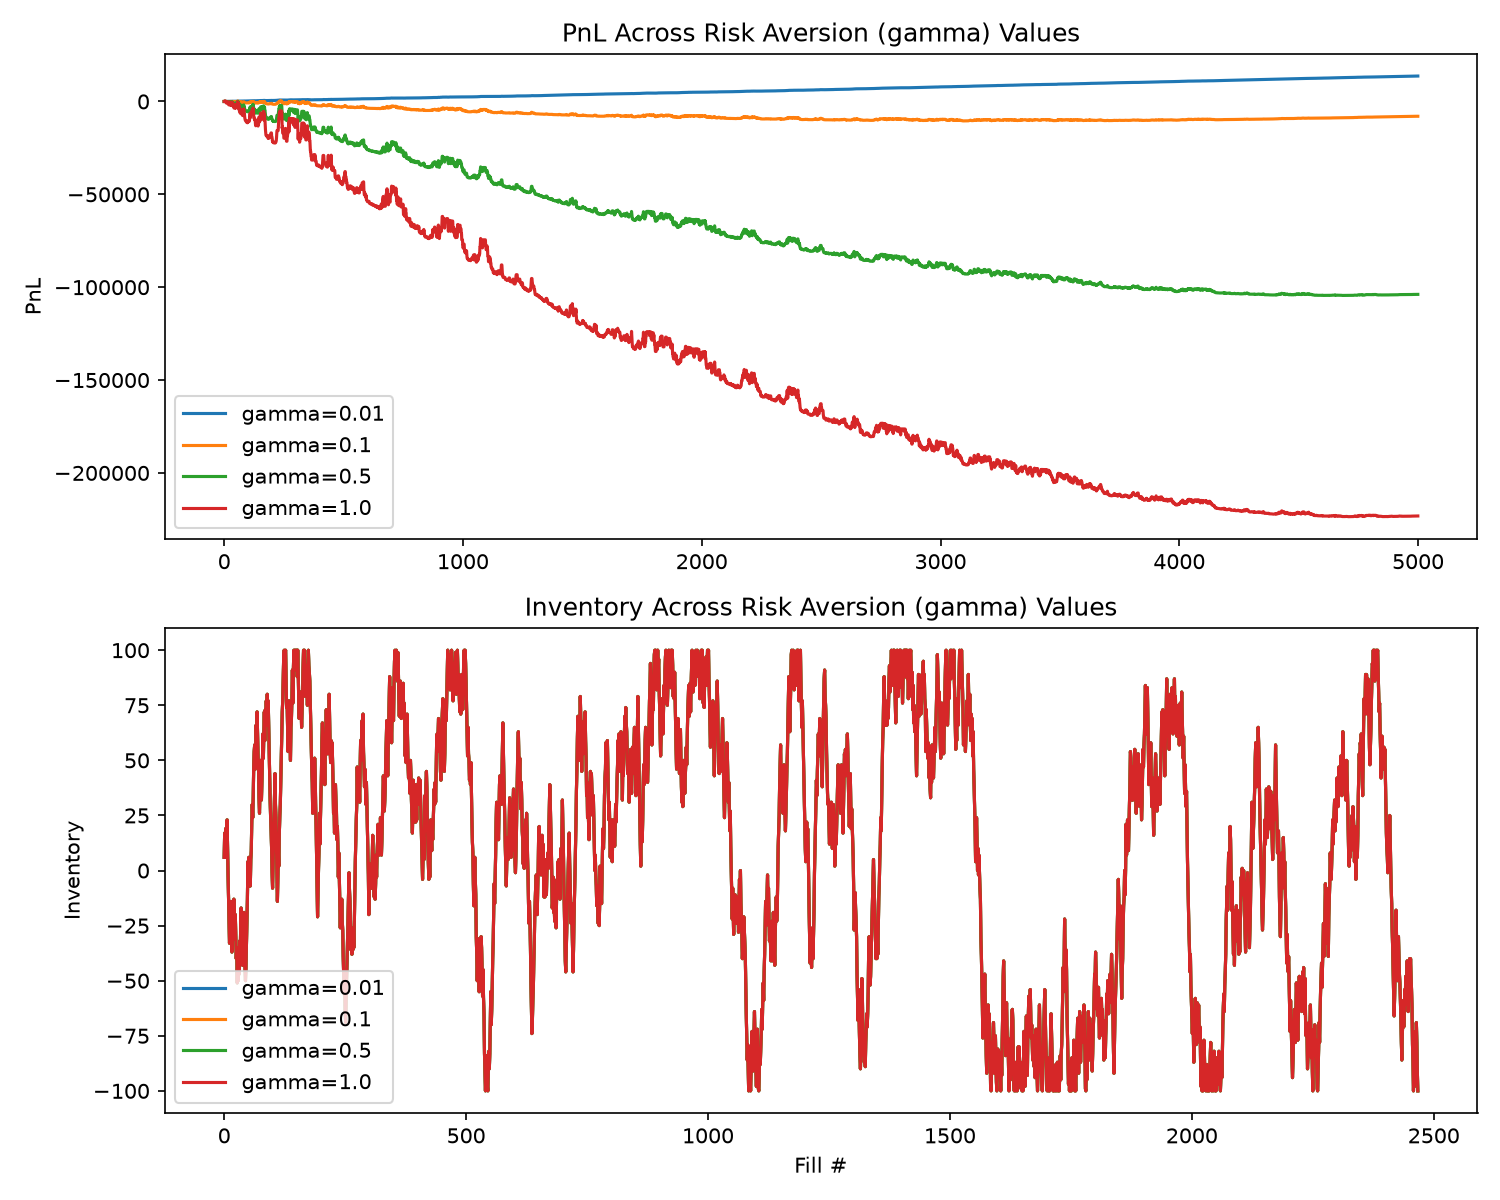
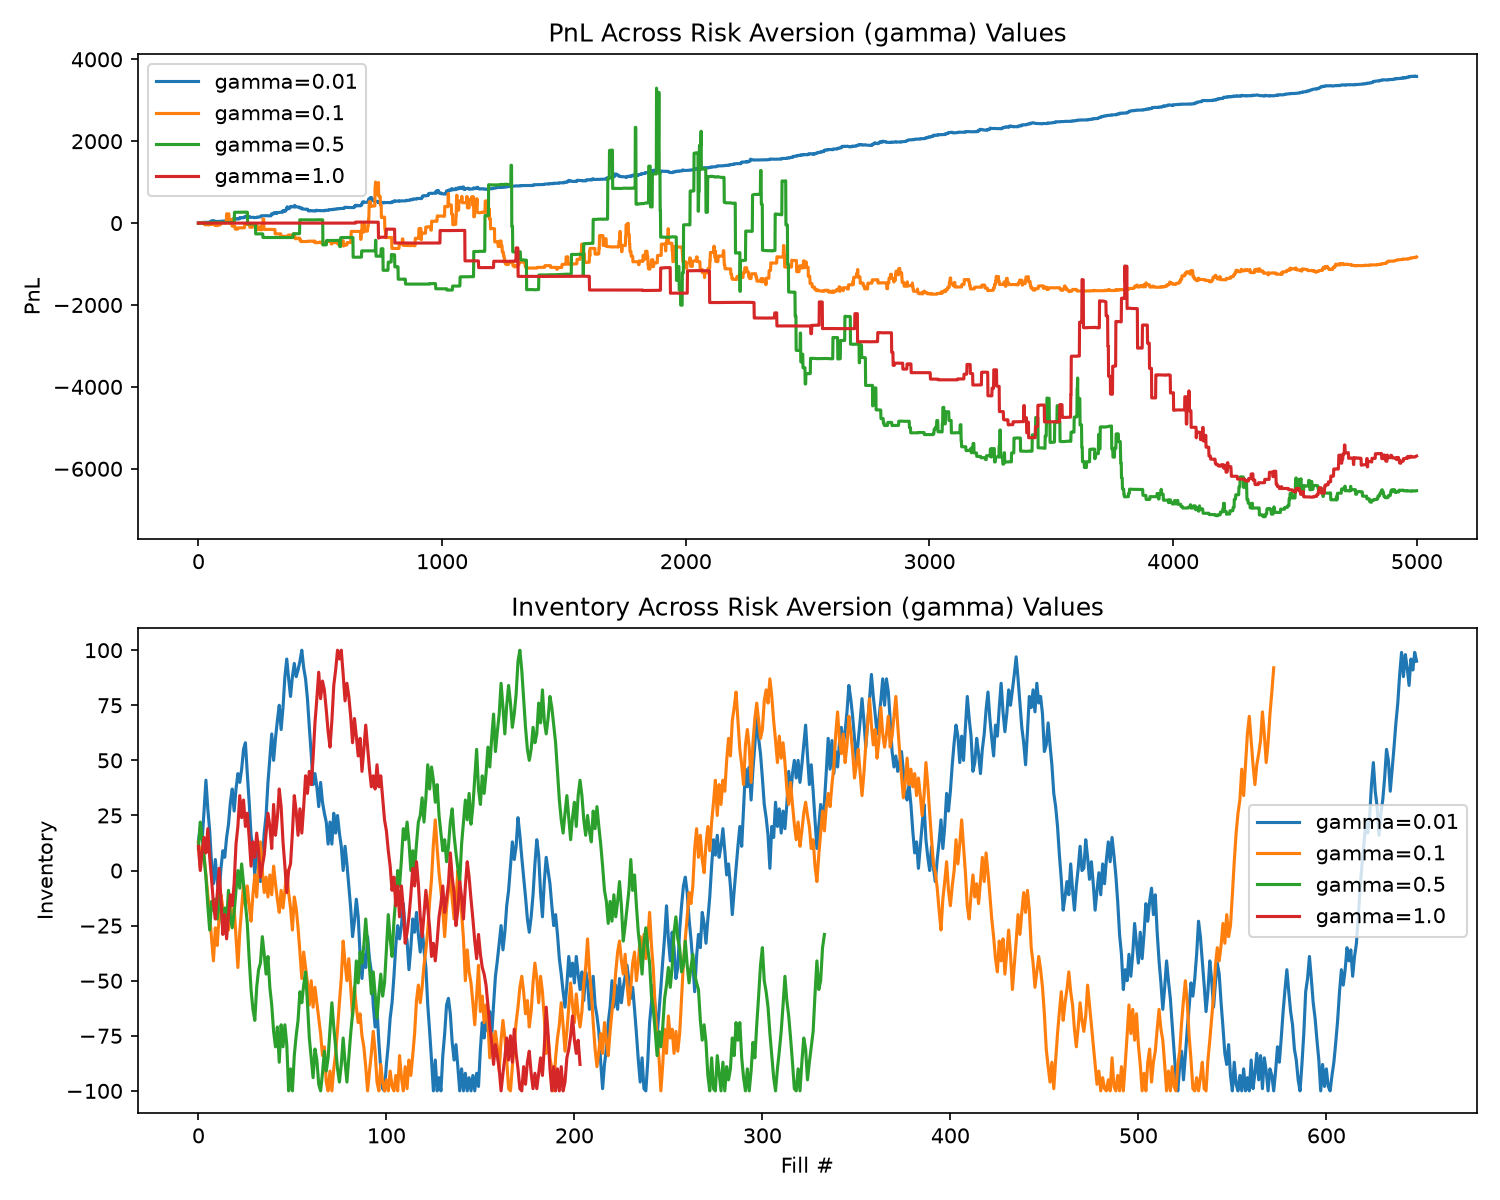
Add multi-seed gamma sweep for statistically robust PnL comparison

diff --git a/notebooks/gamma_sweep_multiseed.py b/notebooks/gamma_sweep_multiseed.py
@@ -1,0 +1,68 @@
+"""
+Parameter sensitivity sweep (multi-seed): compares market maker performance
+across different risk-aversion (gamma) values, averaged over multiple random
+seeds, to give a statistically credible view of the gamma-PnL relationship.
+"""
+
+import sys
+import os
+sys.path.insert(0, os.path.join(os.path.dirname(__file__), '..', 'src'))
+
+import numpy as np
+import matplotlib.pyplot as plt
+from backtester import Backtester
+from market_maker import AvellanedaStoikovMaker
+from order_flow import OrderFlowGenerator
+
+
+def run_single(gamma, seed):
+    mm = AvellanedaStoikovMaker(gamma=gamma, sigma=2.0, k=1.5, T=1.0, inventory_limit=100)
+    flow = OrderFlowGenerator(mid_price=100.0, tick_size=0.01, arrival_rate=10,
+                               spread_ticks=5, size_mean=10, seed=seed)
+    bt = Backtester(mm, flow, n_steps=5000, dt=0.0002, fill_prob=0.5,
+                     spread_decay=2.0, seed=seed)
+    results = bt.run()
+    final_pnl = results["pnl"][-1] if results["pnl"] else 0.0
+    final_inv = mm.inventory_history[-1] if mm.inventory_history else 0
+    n_fills = len(mm.inventory_history)
+    return final_pnl, final_inv, n_fills
+
+
+def main():
+    gammas = [0.01, 0.1, 0.5, 1.0]
+    seeds = list(range(20))  # 20 seeds per gamma for a stable average
+
+    print(f"{'gamma':>8} {'mean_pnl':>12} {'std_pnl':>10} {'mean_|inv|':>12} {'mean_fills':>12}")
+
+    mean_pnls, std_pnls = [], []
+    for gamma in gammas:
+        pnls, invs, fills = [], [], []
+        for seed in seeds:
+            pnl, inv, n_fills = run_single(gamma, seed)
+            pnls.append(pnl)
+            invs.append(abs(inv))
+            fills.append(n_fills)
+
+        mean_pnl = np.mean(pnls)
+        std_pnl = np.std(pnls)
+        mean_pnls.append(mean_pnl)
+        std_pnls.append(std_pnl)
+
+        print(f"{gamma:>8} {mean_pnl:>12.2f} {std_pnl:>10.2f} {np.mean(invs):>12.2f} {np.mean(fills):>12.1f}")
+
+    fig, ax = plt.subplots(figsize=(8, 5))
+    ax.errorbar(gammas, mean_pnls, yerr=std_pnls, marker='o', capsize=4)
+    ax.set_xscale('log')
+    ax.set_xlabel("gamma (risk aversion, log scale)")
+    ax.set_ylabel("Mean final PnL (± 1 std across 20 seeds)")
+    ax.set_title("PnL vs Risk Aversion, averaged across seeds")
+    ax.axhline(0, color='gray', linewidth=0.8, linestyle='--')
+    plt.tight_layout()
+
+    output_path = os.path.join(os.path.dirname(__file__), "gamma_sensitivity_multiseed.png")
+    plt.savefig(output_path, dpi=150)
+    print(f"\nSaved plot to {output_path}")
+
+
+if __name__ == "__main__":
+    main()
